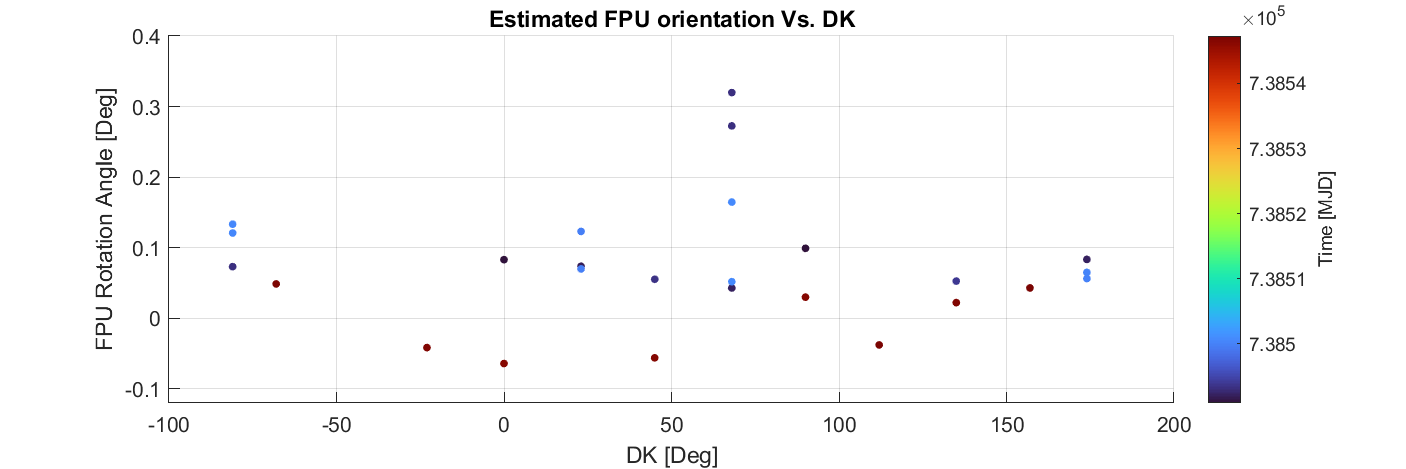
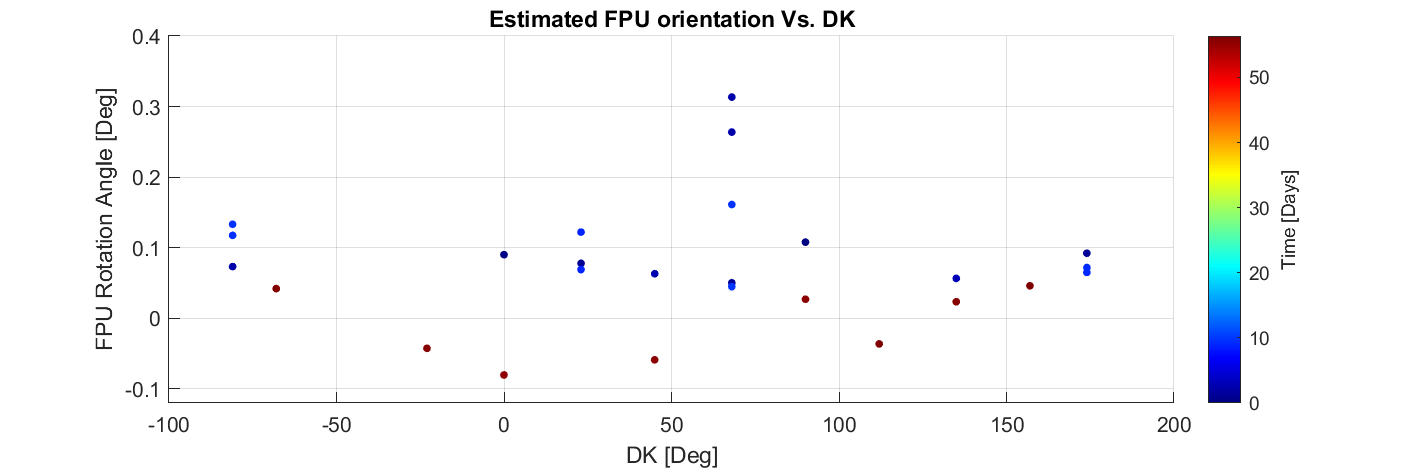
updates for talk with Clara

diff --git a/2022mmdd_rps_pointing/index.html b/2022mmdd_rps_pointing/index.html
@@ -16,7 +16,8 @@
         });
     </script>
     <script type="text/javascript"
-            src="../mathjax/MathJax.js?config=TeX-AMS-MML_HTMLorMML">
+            src="../mathjax/MathJax.js?config=TeX-AMS-MML_SVG">
+    <!--            src="../mathjax/MathJax.js?config=TeX-AMS-MML_HTMLorMML">-->
     </script>
 
 </head>
@@ -27,7 +28,7 @@
 <link rel="stylesheet" type="text/css" href="scripts/pager.css">
 
 <header>
-    <h1>RPS Beam Center Residuals</h1>
+    <h1>RPS Pointing Analysis</h1>
 
     <time datetime="2020-xx-xx" class="published updated">
         yyyy Mmm dd
@@ -48,46 +49,27 @@
     <h3>Subsection 1</h3>
 
 
-<!--    <figure>-->
-<!--        <img alt="Name pager" id="testquiverpager" src="#" />-->
-<!--        <figcaption>-->
+<p>I use the mirror parameters derived from the Moon Analysis described in <a href="JAC2022c">JAC2022c</a> (Tilt=44.88&deg; / Roll=-0.070&deg;) and fit for a source location over all DK angles (Az=-177.52 / El=2.70) using a method similar to how we fit for mirror parameters described in &sect; 2 of <a href="JAC2022a"></a> except we take the mirror parameters in the pointing model as known and instead let the source azimuth and elevation be free parameters:</p>
+    <p>With <tt>beam_map_pointing_model.m</tt> as our
+        model we computer the instrument-fixed coordinates in x/y:</p>
 
-<!--        </figcaption>-->
-<!--        <script type="text/javascript">-->
+    \begin{equation}
+    [x,\,y,\,\phi] = \text{beam_map_pointing_model}(Az_{src},\,El_{src} | A_{0},\,E_{0},\,K_{0},\,Mount,\,Mirror)
+    \end{equation}
 
-<!--            var vallist = new Array(10);-->
-<!--            for (var ii=1; ii<=10; ++ii) {-->
-<!--                vallist[ii] = ii;-->
-<!--            }-->
+    where $A_0$, $E_0$, and $D_0$ are the as-fit beam centers in raw mount coordinates; $Mount$ comprises the relevant
+    mount information derived from both optical starpointing and Solidworks drawings; $Mirror$ comprises the tilt, roll and height of the mirror.
 
-<!--            var valopt = new Pager.DataList(vallist);-->
-<!--            valopt.toString = function() {-->
-<!--                var val = this.list[this.idx].toString();-->
-<!--                while (val.length < 1) { val = "0"+val; }-->
-<!--                return val;-->
-<!--            }-->
-<!--            valopt.fromString = function(val) {-->
-<!--                return parseInt(val);-->
-<!--            }-->
+    <p>Then using CMB-derived beam centers as the 'observed' quantity, the chi-square to minimize is just:</p>
 
-<!--            pager.link("#testquiverpager",-->
-<!--                {-->
-<!--                    'Param|parm': ['Tilt|tilt','Roll|roll','Src Azimuth|az','Src Elevation|el'],-->
-<!--                    'Value|v' : valopt,-->
-<!--                    'Coord|coord' : ['Inst Fixed|','Mirror Fixed|_mirror'],-->
-<!--                },-->
-<!--                function(params) {-->
-<!--                    return 'figs/testquiver_'+params.parm+'_'+params.v+params.coord+'.png';-->
-<!--                });-->
-<!--            pager.setparams({-->
-<!--                'parm' : 'tilt',-->
-<!--                'v': '5',-->
+    \begin{equation}
+    \chi^2=\sum \frac{(x_{CMB,i}-x_{0,i})^2+(y_{CMB,i}-y_{0,i})^2}{\sigma_i^2}
+    \end{equation}
 
-<!--            });-->
-<!--        </script>-->
-<!--    </figure>-->
+    <p></p>
 
-<p>I use the mirror parameters derived from the Moon Analysis described in <a href="http://bicep.rc.fas.harvard.edu/jcornelison/postings/20220617_mirror_analysis_3/">JAC2022c</a> and fit for a source location over all DK angles. I then fit for a single source location over all DK angles (Az=-177.52 / El=2.70) and plot the residual for each DK angle in the pager below. The DKs of "0_1" through "-23" are type-11 schedules which scan across the entire focal plane in a single raster.</p>
+
+    <p>The DKs of "0_1" through "-23" are type-11 schedules which scan across the entire focal plane in a single raster.</p>
     <figure>
         <img alt="Name pager" id="quiver2pager" src="#" />
         <figcaption>
@@ -190,6 +172,7 @@
         // Posting titles
         var desc = [
             "Derives mirror parameters from observations of the moon.",
+
         ];
 
         // Make a list of references
@@ -270,19 +253,28 @@
         // Shorthand tags
         var tags = [
             "CAB2012",
+            "JAC2022a",
+            "JAC2022b",
+            "JAC2022c",
         ];
 
         // Links
         // Truncate the link down to the www directory in which is lies if you can.
         var hrefs = [
             "keck/analysis_logbook/analysis/20120510_beam_map_pointing/",
-
+            "bicep3/analysis_logbook/20220428_mirror_analysis/",
+            "bicep3/analysis_logbook/20220505_mirror_analysis_2/",
+            "jcornelison/postings/20220617_mirror_analysis_3/",
         ];
 
 
         // Posting titles
         var desc = [
             "Pointing Model for Keck Beam Maps",
+            "Deriving Mirror Properties from the Moon",
+            "2022 Moon Analysis II: GCP Coordinate Systems and Moon Phases",
+            "2022 Moon Analysis III: Pointing Systematics",
+
         ];
         // Debug
         var posty = document.getElementById("testp");

diff --git a/20220617_mirror_analysis_3/index.html b/20220617_mirror_analysis_3/index.html
@@ -93,7 +93,33 @@
     <p>
         The mirror parameters after phase correction shift as expected: the mirror angles have an extra factor of 2 from reflection, so any shift in the Moon's Az/El should roughly correspond to half that shift in mirror roll/tilt respectively. However, we can see in the pager that this isn't the full story. We can still see statistically significant offsets in average roll for a given observing period (i.e. the three distinct ~24-hour periods at which moon observations were conducted).
     </p>
+    <p>
+        I plot below the mirror roll parameter estimated as a function of time-of-day and fine that there's no obvious dependence here.
+    </p>
 
+    <figure>
+        <img src="figs/roll_vs_tod.png"/>
+
+        <figcaption>
+
+        </figcaption>
+    </figure>
+
+    <p>If I plot Roll Vs. DK, we see a weak negative trend in DK.</p>
+
+    <figure>
+        <img src="figs/roll_vs_dk.png"/>
+
+        <figcaption>
+
+        </figcaption>
+    </figure>
+
+
+
+
+</section>
+<section>
 <!--    Why do we want to look at residuals?-->
 <!--
     <p>
@@ -145,6 +171,7 @@
     </figure>
 
 -->
+    <h2>Beam Center Residuals</h2>
     <p>
         In this next figure I show how individual errors on a given mirror or source parameter affect the residuals.
     </p>
@@ -259,14 +286,24 @@
     </p>
 
 
+    <h3>FPU Orientation</h3>
+<p>With respect to the RPS, we care mostly about the apparent orientation of the focal plane as that sets the point to which we reference the polarization angle.</p>
+
     <figure>
-        <img src="figs/roll_vs_tod.png"/>
+        <img src="figs/fpu_ang_vs_tod.png"/>
 
         <figcaption>
 
         </figcaption>
     </figure>
 
+    <figure>
+        <img src="figs/fpu_ang_vs_dk.png"/>
+
+        <figcaption>
+
+        </figcaption>
+    </figure>
 
 
     <p>

diff --git a/20220617_mirror_analysis_3/scripts/moon_analysis_plots_2022may27.m b/20220617_mirror_analysis_3/scripts/moon_analysis_plots_2022may27.m
@@ -780,7 +780,7 @@ end
 fd0 = moon_fit_mirror(fd,'p',p,'p_ind',p_ind,'savedir','','pm',model);
 fd0.fitparam
 
-%% fit for mirror per dk.
+%% fit for mirror per tod.
 % How does it look vs time compared to 
 clc 
 [mirrparms, nchans] = deal([]);
@@ -812,6 +812,40 @@ title('Estimated Roll Vs. Time-of-day')
 C = colorbar();
 C.Label.String = 'Time [Days]';
 figname = fullfile(figdir,'roll_vs_tod.png');
+saveas(fig,figname)
+
+%% fit for mirror per dk.
+% How does it look vs time compared to 
+clc 
+[mirrparms, nchans] = deal([]);
+for schedind = 1:length(scheds)
+    ind = ismember(fd.schind,scheds{schedind});
+
+    if ~isempty(find(ind))
+        fd0 = moon_fit_mirror(structcut(fd,ind),'p',p,'p_ind',p_ind,'savedir','','pm',model);
+        mirrparms(schedind,:) = fd0.fitparam;
+        nchans(schedind) = length(find(ind));
+
+    end
+end
+
+
+%
+fig = figure(1);
+fig.Position(3:4) = [900 300];
+clf; hold on;
+%plot(dks,mirrparms(:,2),'.')
+scatter(dks,mirrparms(:,2),14,times-times(1),'filled')
+%plot(times-floor(times),mirrparms(:,2),'.')
+grid on
+%xlim([-100 200])
+ylim([-0.12 -0.04])
+xlabel('DK [Deg]')
+ylabel('Mirror Roll [Deg]')
+title('Estimated Roll Vs. DK')
+C = colorbar();
+C.Label.String = 'Time [Days]';
+figname = fullfile(figdir,'roll_vs_dk.png');
 saveas(fig,figname)
 
 
@@ -904,7 +938,7 @@ end
 fig = figure(1);
 fig.Position(3:4) = [900 300];
 clf; hold on;
-scatter(dks,fpuparms(:,1),14,times,'filled')
+scatter(dks,fpuparms(:,1),14,times-times(1),'filled')
 %scatter(times,fpuparms(:,1),14,dks,'filled')
 grid on
 xlim([-100 200])
@@ -913,7 +947,8 @@ ylabel('FPU Rotation Angle [Deg]')
 ylim([-0.12 0.4])
 title('Estimated FPU orientation Vs. DK')
 C = colorbar();
-C.Label.String = 'Time [MJD]';
+C.Label.String = 'Time [Days]';
+colormap('jet')
 figname = fullfile(figdir,'fpu_ang_vs_dk.png');
 saveas(fig,figname)
 
